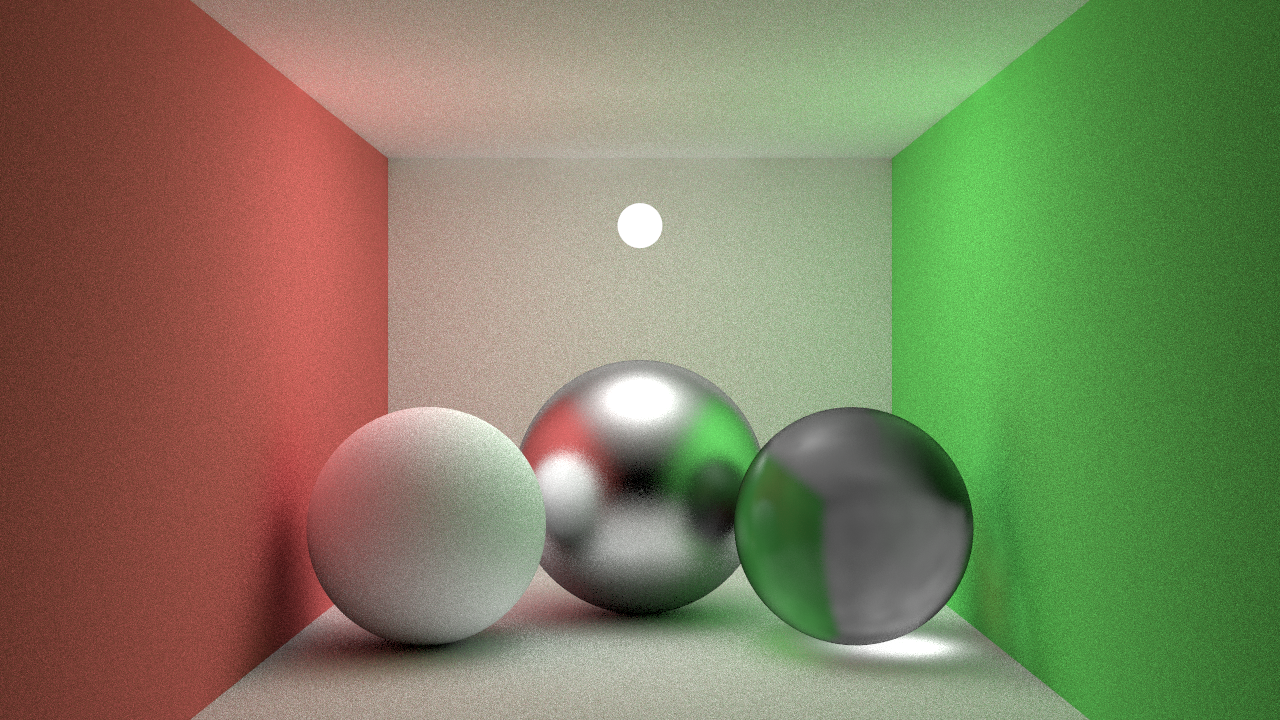
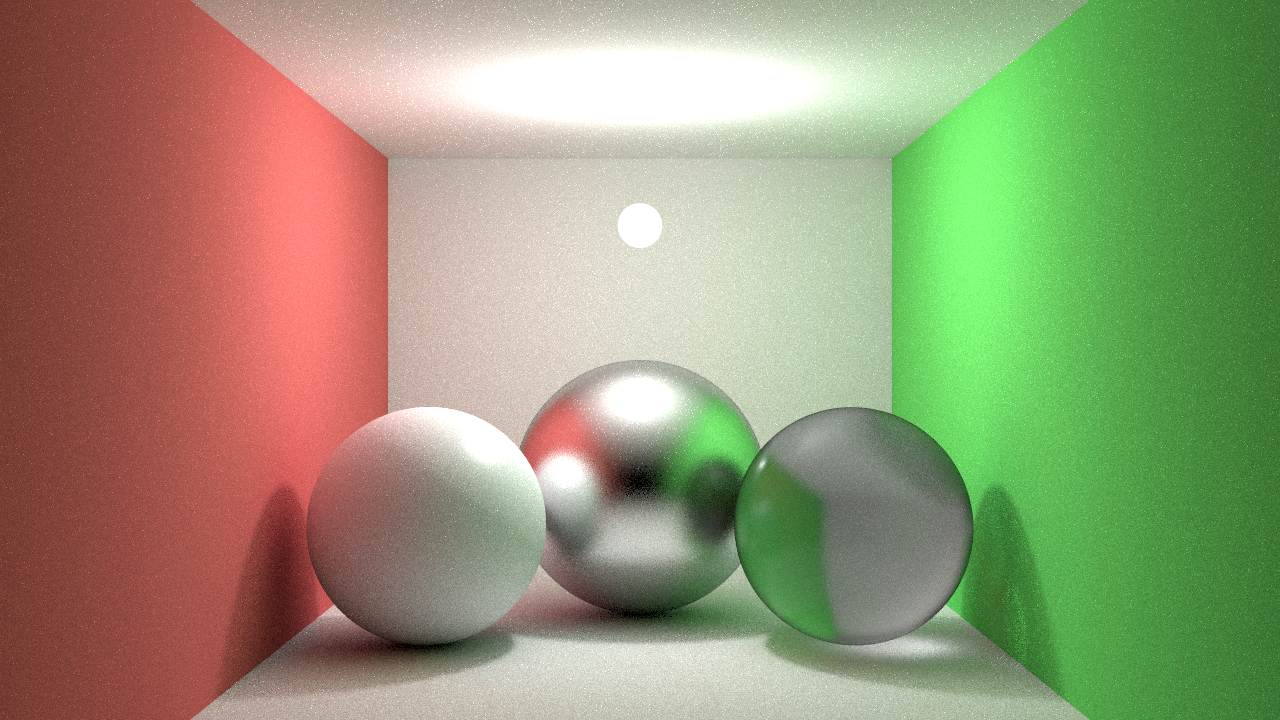
Fixed monte carlo with photon mapping causing that logic to rarely run

diff --git a/src/materials.cpp b/src/materials.cpp
@@ -47,7 +47,7 @@ Color MtlBlinn::Shade(ShadeInfo const &shadeInfo) const
     }
 
     // Using photon maps
-    if (monteCarloWithPhoton && shadeInfo.CurrentBounce() < 1)
+    if (monteCarloWithPhoton)
     {
         if (IsPhotonSurface())
         {
@@ -69,17 +69,26 @@ Color MtlBlinn::Shade(ShadeInfo const &shadeInfo) const
                 const Vec3f monteWorldDir{ (x * u) + (y * v) + (z * normal) };
                 const Ray monteRay{ shadeInfo.P() + monteWorldDir * 0.0002f, monteWorldDir };
 
-                float dist;
-                finalColor += shadeInfo.TraceSecondaryRay(monteRay, dist) * diffuseColor;
+                //float dist;
+                //finalColor += shadeInfo.TraceSecondaryRay(monteRay, dist) * diffuseColor;
 
-                //HitInfo hInfo;
-                //if (renderer.TraceRay(monteRay, hInfo))
-                //{
-                //    Color lightIntensity;
-                //    Vec3f lightDir;
-                //    renderer.GetPhotonMap()->EstimateIrradiance<128>(lightIntensity, lightDir, 3.0f, hInfo.p, hInfo.N, 1.0f);
-                //    finalColor += (1.0f / M_PI) * lightIntensity * diffuseColor;
-                //}
+                HitInfo hInfo;
+                if (renderer.TraceRay(monteRay, hInfo))
+                {
+                    Color lightIntensity;
+                    Vec3f lightDir;
+                    renderer.GetPhotonMap()->EstimateIrradiance<128>(lightIntensity, lightDir, 3.0f, hInfo.p, hInfo.N, 1.0f);
+                    //finalColor += (1.0f / M_PI) * lightIntensity * diffuseColor * static_cast<const MtlBlinn*>(hInfo.node->GetMaterial())->Diffuse().GetValue();
+                    //std::cout << (dynamic_cast<const MtlBlinn*>(hInfo.node->GetMaterial()) == nullptr) << '\n';
+                    //std::cout << (hInfo.node == nullptr) << '\n';
+                    //std::cout << (dynamic_cast<const MtlBlinn*>(hInfo.node->GetMaterial()) == nullptr) << '\n';
+                    if (hInfo.light)
+                        finalColor += diffuseColor / static_cast<float>(numSamples);
+                    else
+                        finalColor += ((1.0f / M_PI) * lightIntensity * diffuseColor * dynamic_cast<const MtlBlinn*>(hInfo.node->GetMaterial())->Diffuse().GetValue()) / static_cast<float>(numSamples);
+
+                    //finalColor += (1.0f / M_PI) * lightIntensity * diffuseColor;
+                }
             }
         }
     }

diff --git a/src/main.cpp b/src/main.cpp
@@ -263,7 +263,7 @@ int main()
 {
     renderer.LoadScene("../assets/scene.xml");
     PhotonMap photonMap{};
-    photonMap.Resize(100000);
+    photonMap.Resize(10000);
     renderer.SetPhotonMap(&photonMap);
 
     PhotonMap causticsMap{};
@@ -292,7 +292,7 @@ int main()
     // Fill in photon map
 
     // Direct only
-    if (!doingIndirectWithPhotonMapping && doingDirectWithPhotonMapping)
+    if (!(doingIndirectWithPhotonMapping && doingDirectWithPhotonMapping) || monteCarloWithPhoton)
     {
         const Light* light{ renderer.GetScene().lights[0] };
         while (true)

diff --git a/src/renderer.cpp b/src/renderer.cpp
@@ -1,7 +1,7 @@
 #include "renderer.h"
 
 Renderer renderer;
-const bool doingDirectWithPhotonMapping{ true };
-const bool doingIndirectWithPhotonMapping{ false };
-const bool doingCaustics{ false };
-const bool monteCarloWithPhoton{ true };
+const bool doingDirectWithPhotonMapping{ false };
+const bool doingIndirectWithPhotonMapping{ true };
+const bool doingCaustics{ true };
+const bool monteCarloWithPhoton{ false };
